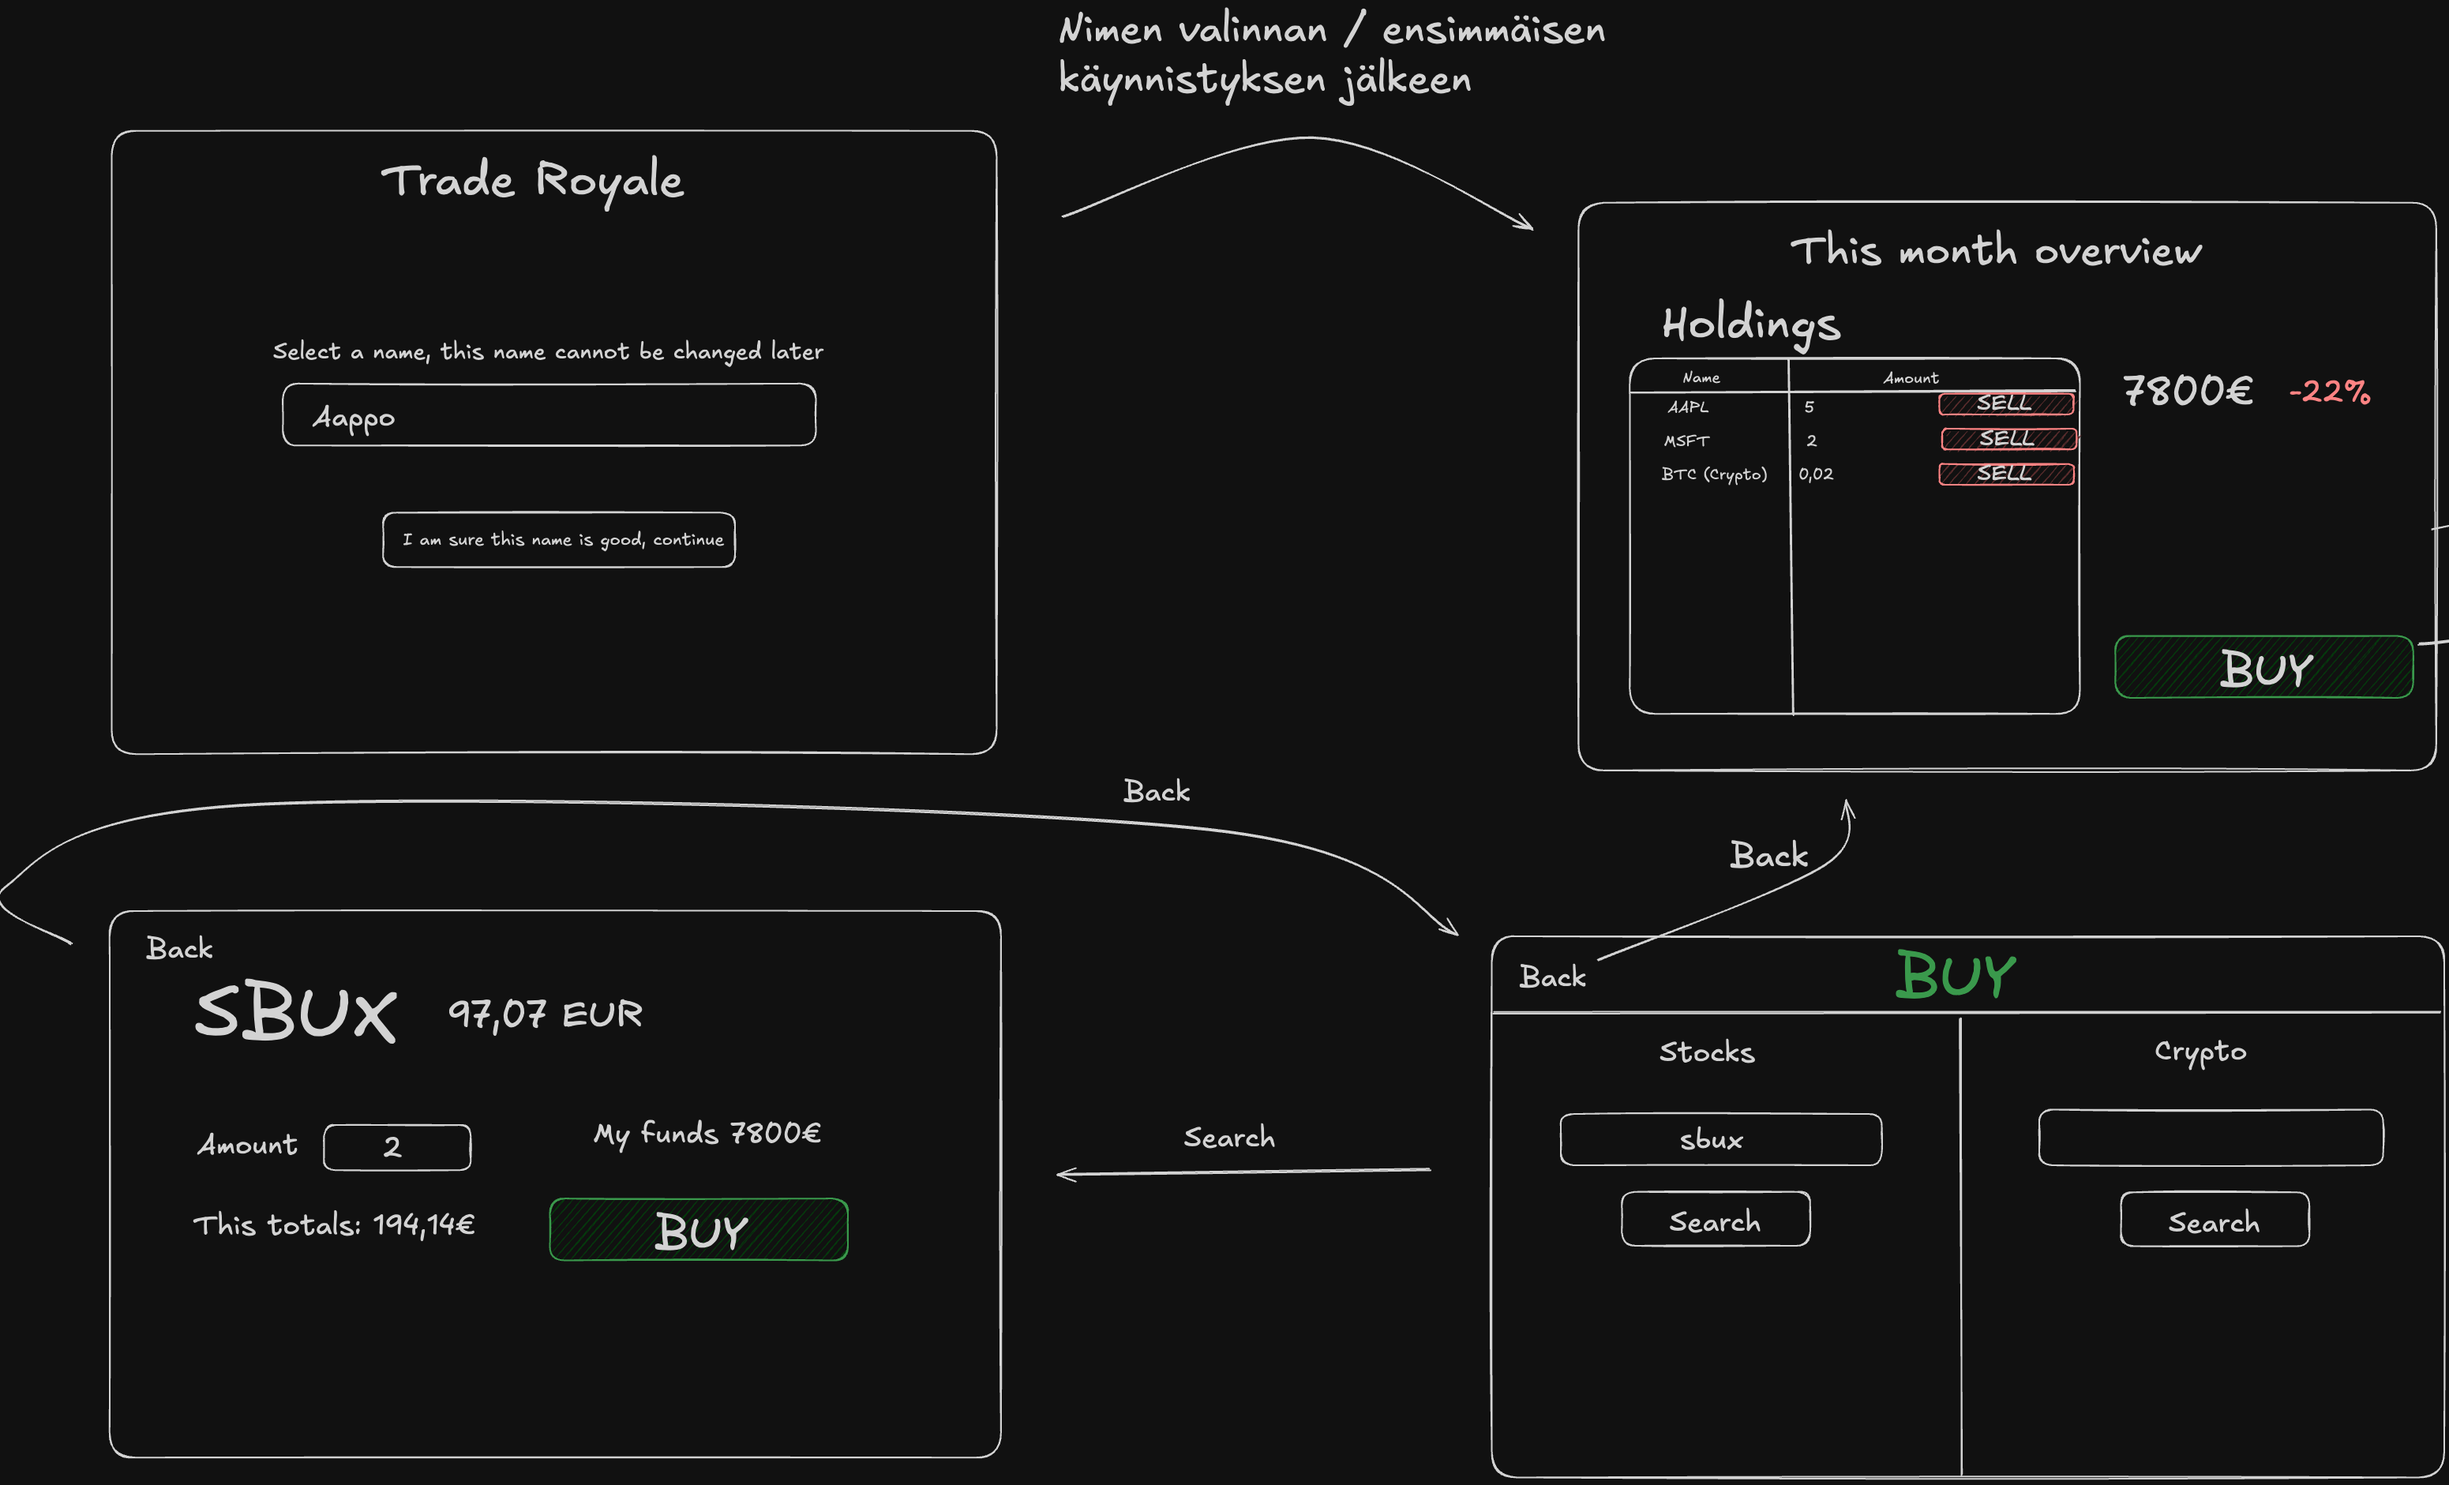
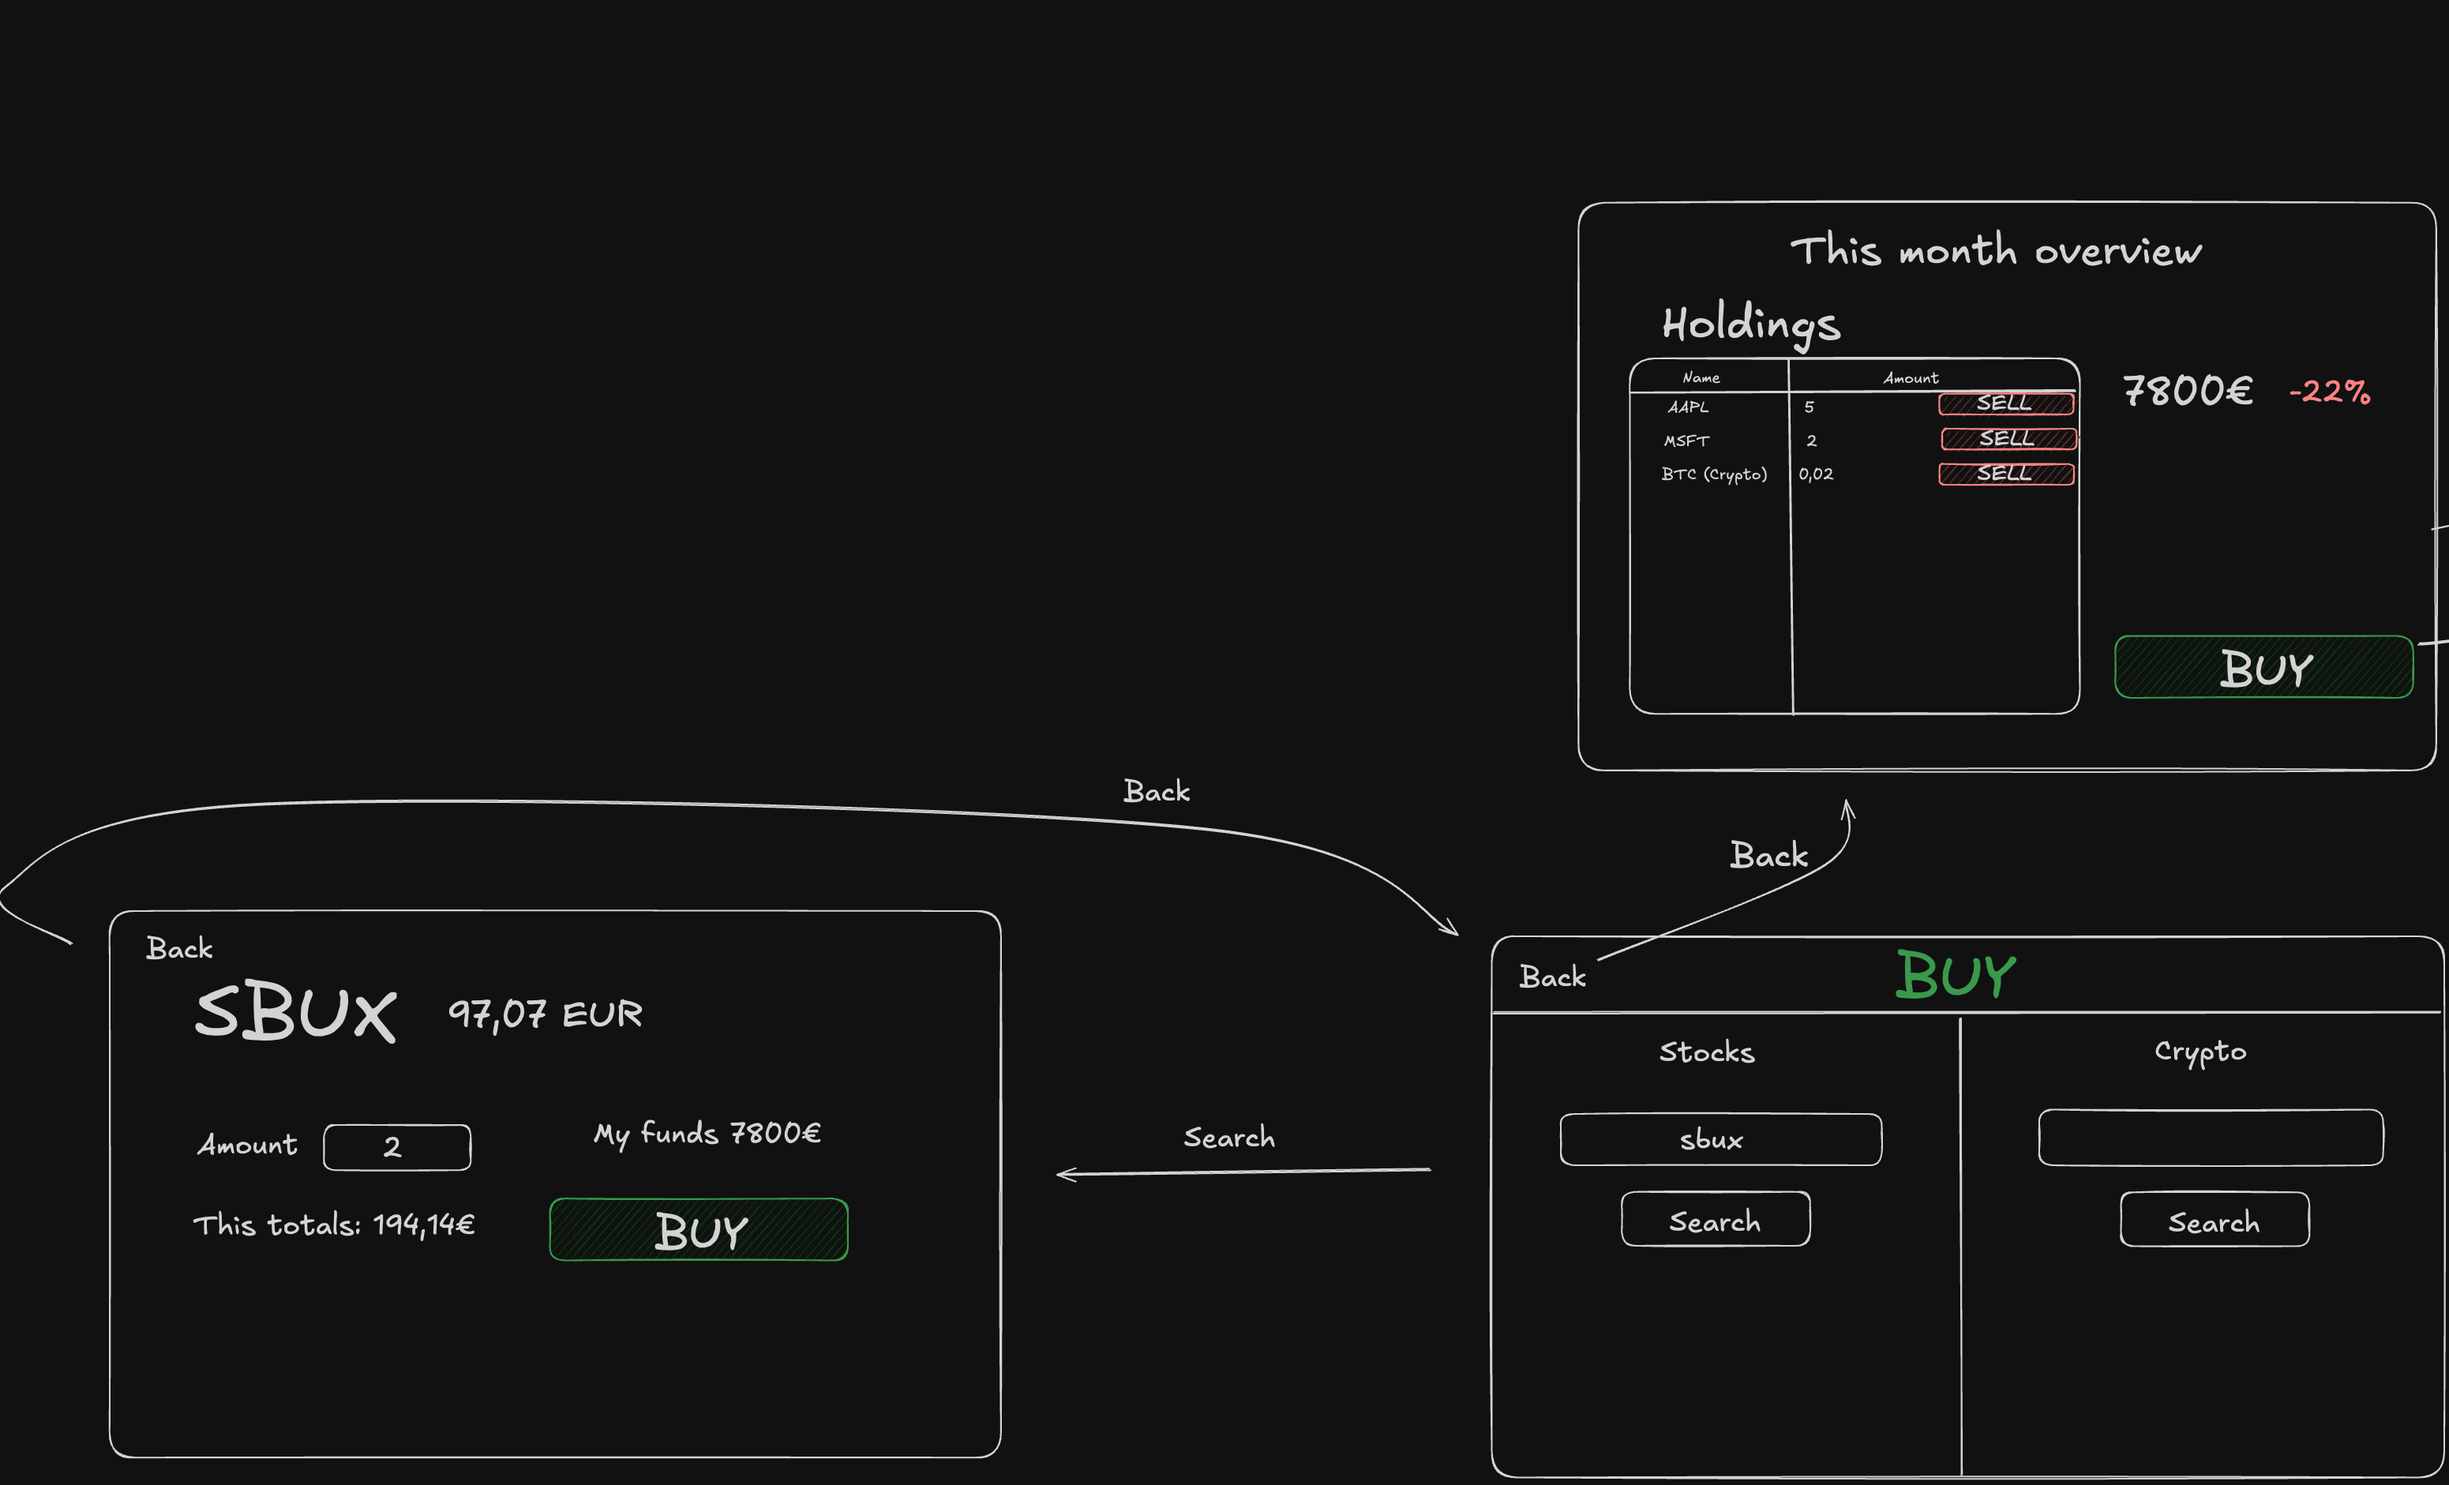
Adjust vaatimusmäärittely

diff --git a/dokumentaatio/vaatimusmaarittely.md b/dokumentaatio/vaatimusmaarittely.md
@@ -6,17 +6,13 @@ Sovelluksen tarkoitus on tuottaa opettavaisia ja hauskoja pelihetkiä. Sovellus 
 
 ## Käyttöliittymäluonnos
 
-Sovellus koostuu neljästä eri näkymästä
+Sovellus koostuu kolmesta eri näkymästä
 
 ![](./kuvat/kayttoliittymaluonnos.png)
 
-Sovellus aukeaa ensimmäisellä käynnistyksellä nimenvalintanäkymään, josta on mahdollista siirtyä muihin näkymiin valitsemalla itselleen nimen. Nimen valittua muissa näkymissä voi seikkailla vapaasti, mutta nimenvalinta näkymään ei enää pääse.
+Sovellus aukeaa Salkkunäkymään, jossa näkyy kaikki omistukset, sekä jotain yleistietoja.
 
 ## Perusversion tarjoama toiminnallisuus
-
-### Käyttäjätilin luonti
-
-- Käyttäjä voi valita nimimerkin, jota ei voi myöhemmin vaihtaa.
 
 ### Salkun hallinta
 
@@ -33,7 +29,7 @@ Sovellus aukeaa ensimmäisellä käynnistyksellä nimenvalintanäkymään, josta
 
 ### Navigointi ja käytettävyys
 
-- Käyttäjä voi käyttää Takaisin -painiketta siirtyäkseen edelliseen näkymään.
+- Käyttäjä voi navigoida kolmen eri näkymän välillä
 
 ## Jatkokehitysideoita
 
